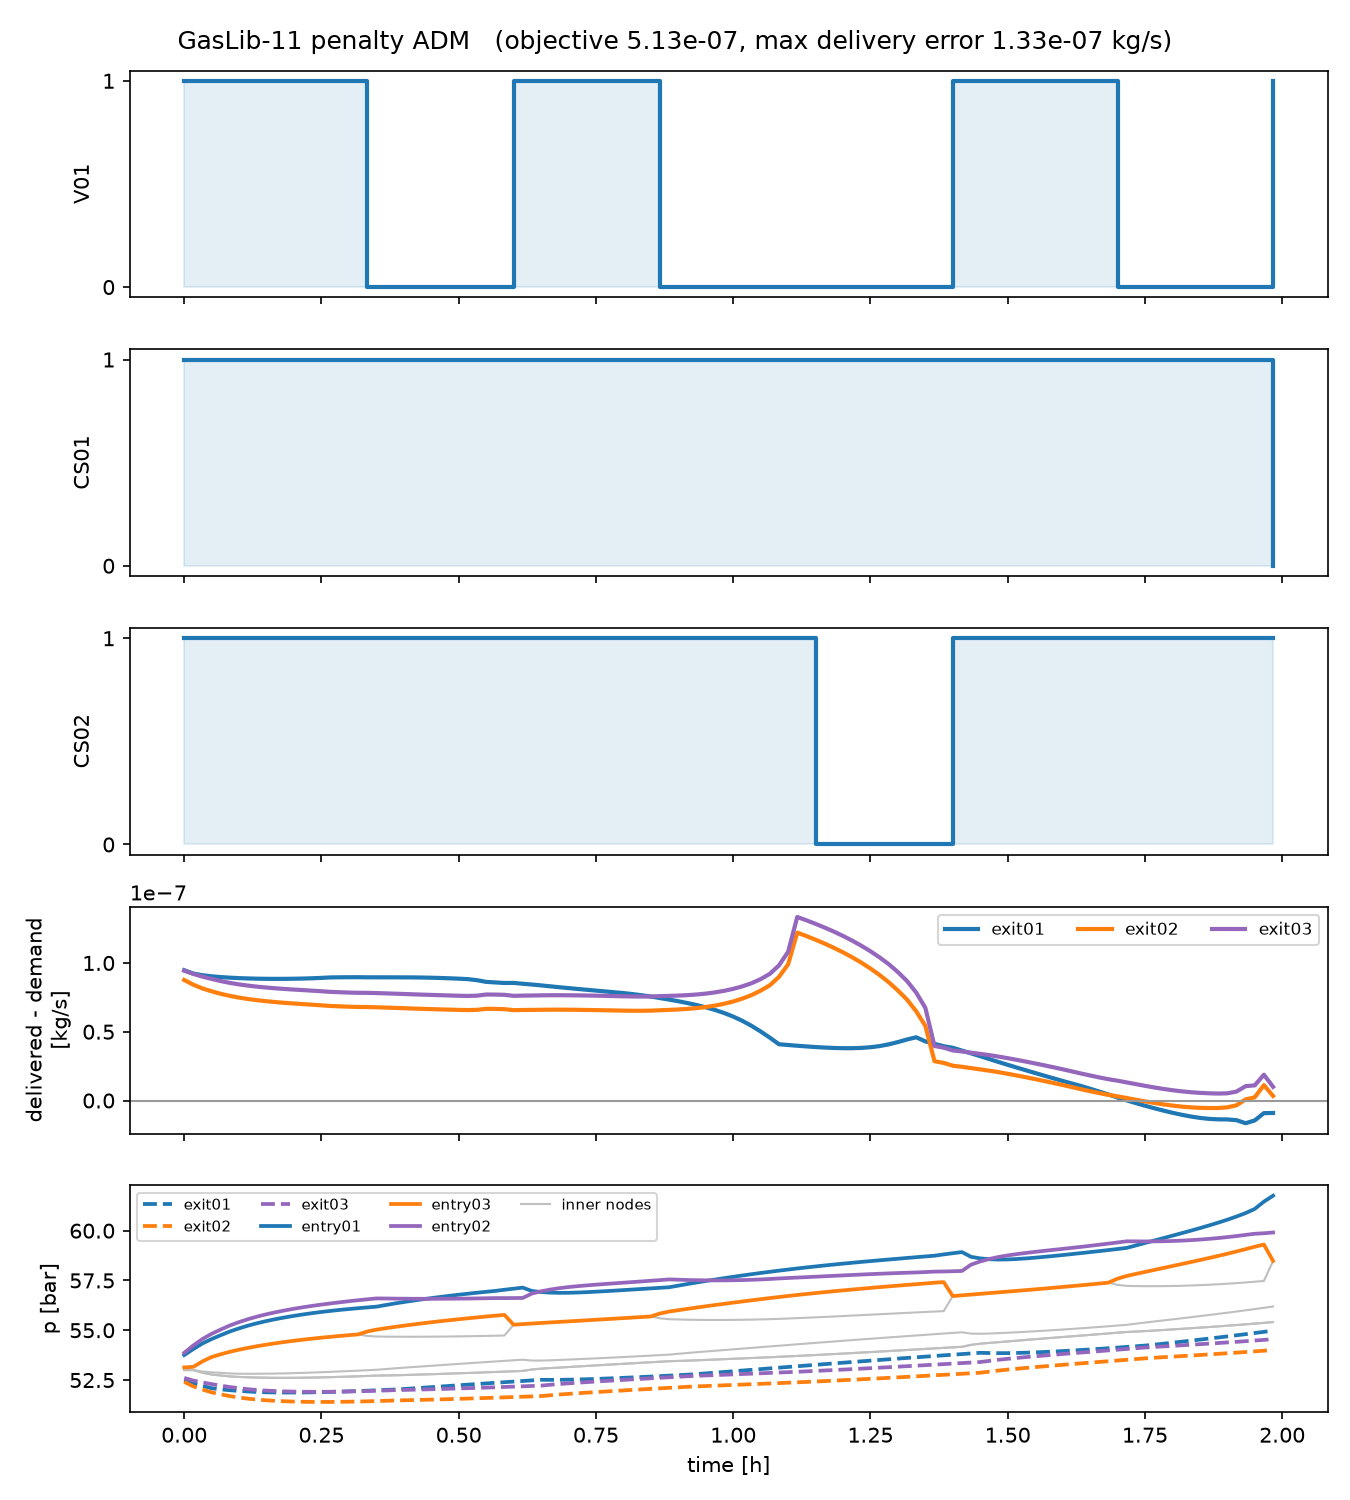
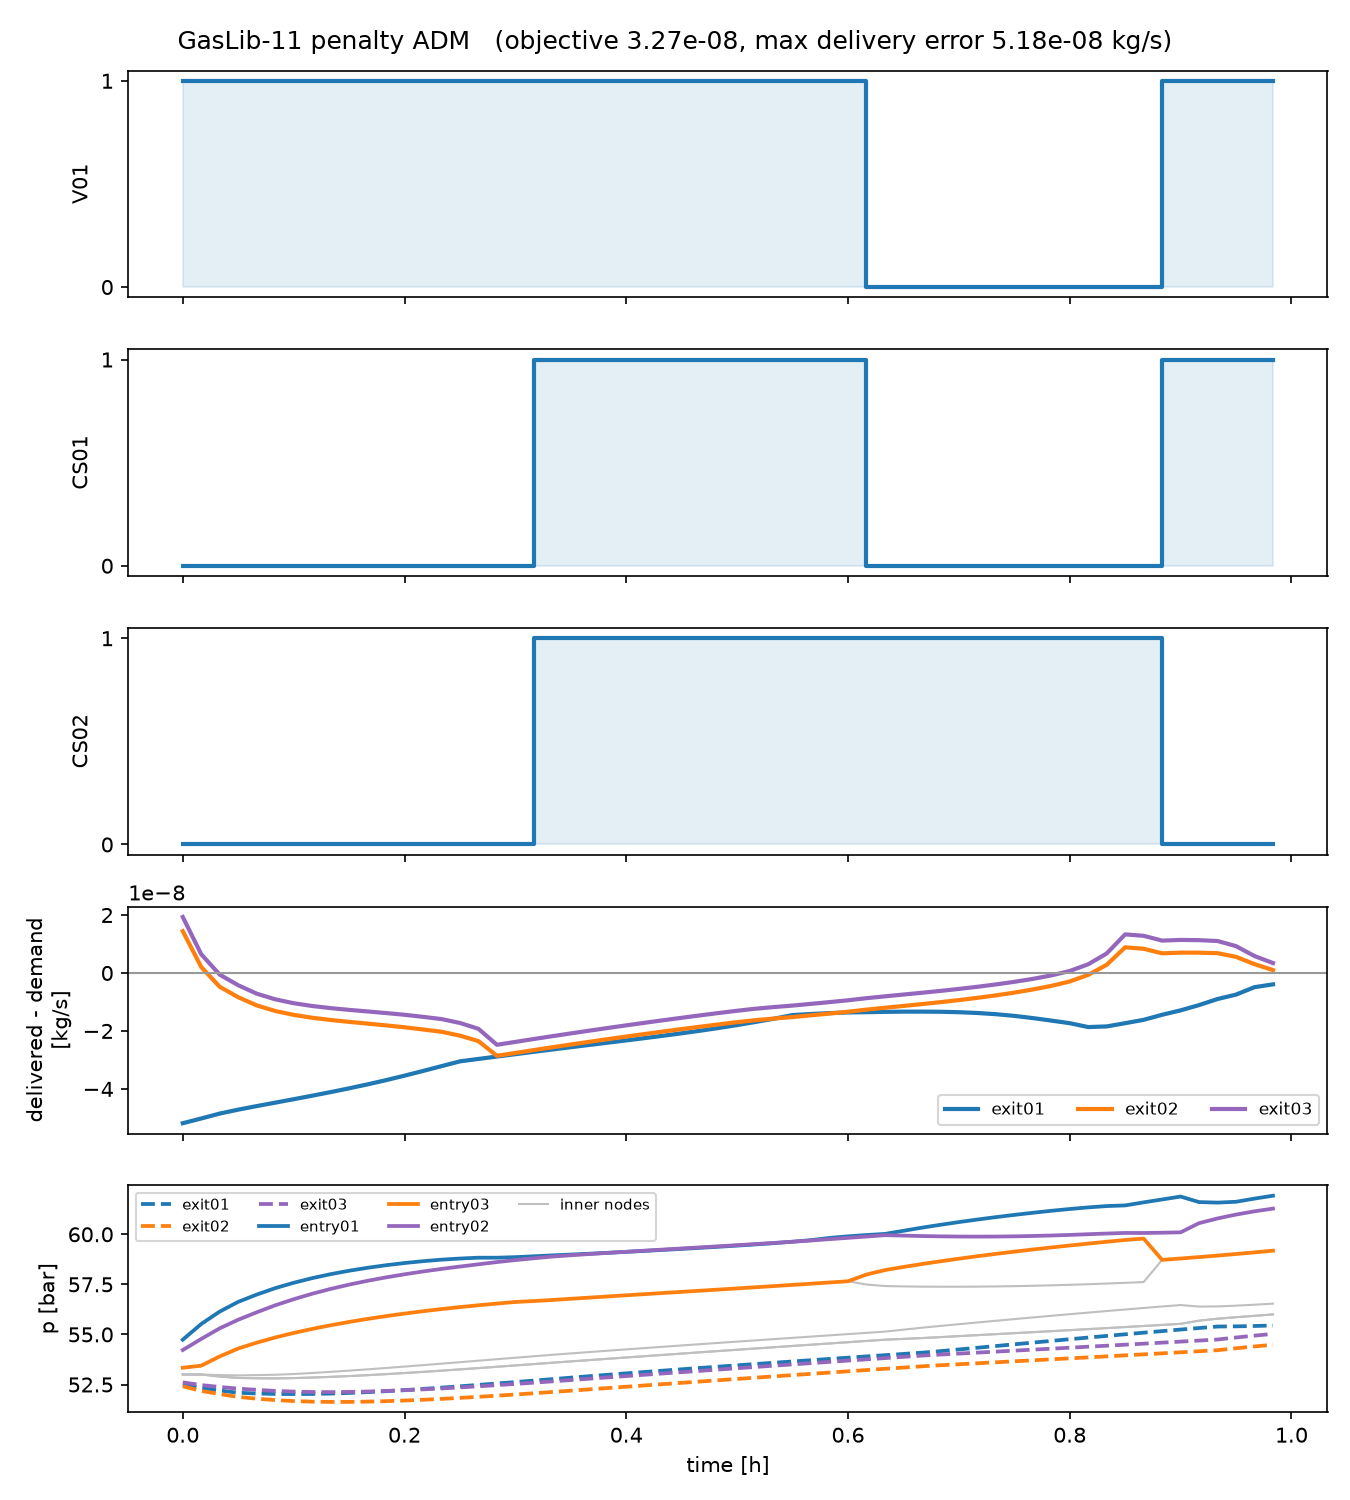
Refresh gas benchmark at the 1 h grid after the review fixes
The 2 h / nt=121 benchmark is no longer practical on HiGHS once the
inner ADM alternation actually runs (tCOMB solves exceeded 1.5 h and the
run was aborted); the README now quotes the 1 h / nt=61 instance and
states the 2 h HiGHS cost as a measured caveat. Post-fix numbers: SUR
5.8e-6 with 102 switching events vs penalty ADM 3.3e-8 with 7 events,
dwell-feasible at 900 s, zero delivery error, ~2 min end-to-end.
Translines results are unchanged by the relative-epsilon fix, as
intended.

diff --git a/README.md b/README.md
@@ -88,23 +88,25 @@ ADM variants deliver the best objectives **and** dwell-feasibility, within
 
 ![Binary schedules per method](assets/translines_schedules.png)
 
-### Transient gas network (GasLib-11, TRR154 sinus scenario, 2 h, τ_min = 900 s)
+### Transient gas network (GasLib-11, TRR154 sinus scenario, 1 h, τ_min = 900 s)
 
-The penalty ADM turns the fractional POC relaxation (objective 2.2·10⁻⁵)
-into a binary, dwell-feasible schedule — valve cycling, compressors mostly
-on — at objective 5.1·10⁻⁷ with **zero delivery error** and all pressures
-within the 40–70 bar bounds. Sum-Up Rounding reaches a similar tracking
-quality only by chattering: **231 switching events** across the three
-elements (the valve flips roughly every 80 s) against the ADM's **9**,
-a 96 % reduction in switching actions at 24× lower objective:
+The penalty ADM turns the fractional POC relaxation (local solution,
+objective 1.1·10⁻⁵) into a binary, dwell-feasible schedule at objective
+3.3·10⁻⁸ with **zero delivery error** and all pressures within the
+40–70 bar bounds — in ~2 minutes end-to-end on open-source solvers
+(IPOPT + HiGHS). Sum-Up Rounding tracks the demand only by chattering:
+**102 switching events** across the three elements (the compressors flip
+at ~50 % duty) against the ADM's **7** — 93 % fewer switching actions at
+~180× lower objective:
 
 ![GasLib-11 penalty ADM solution](assets/gaslib11_adm.png)
 
-(The single-step flips at the very end of the horizon are the
-end-of-horizon convention: terminal blocks are exempt from the min-up
-check, as in real-world transient gas control models.) Known performance
-caveat: the tCOMB MILPs at nt = 121 cost ~20 min total on HiGHS; Gurobi
-closes that gap (`--milp-backend gurobi`).
+(The short blocks at the very end of the horizon are the end-of-horizon
+convention: terminal blocks are exempt from the min-up check, as in
+real-world transient gas control models.) Measured performance caveat:
+on the finer 2 h grid (Δt = 60 s, 960 binaries per projection MILP) the
+tCOMB solves exceed 1.5 h total on HiGHS — that grid needs the Gurobi
+backend (`--milp-backend gurobi`) or a `time_budget`.
 
 ## Engineering
 
